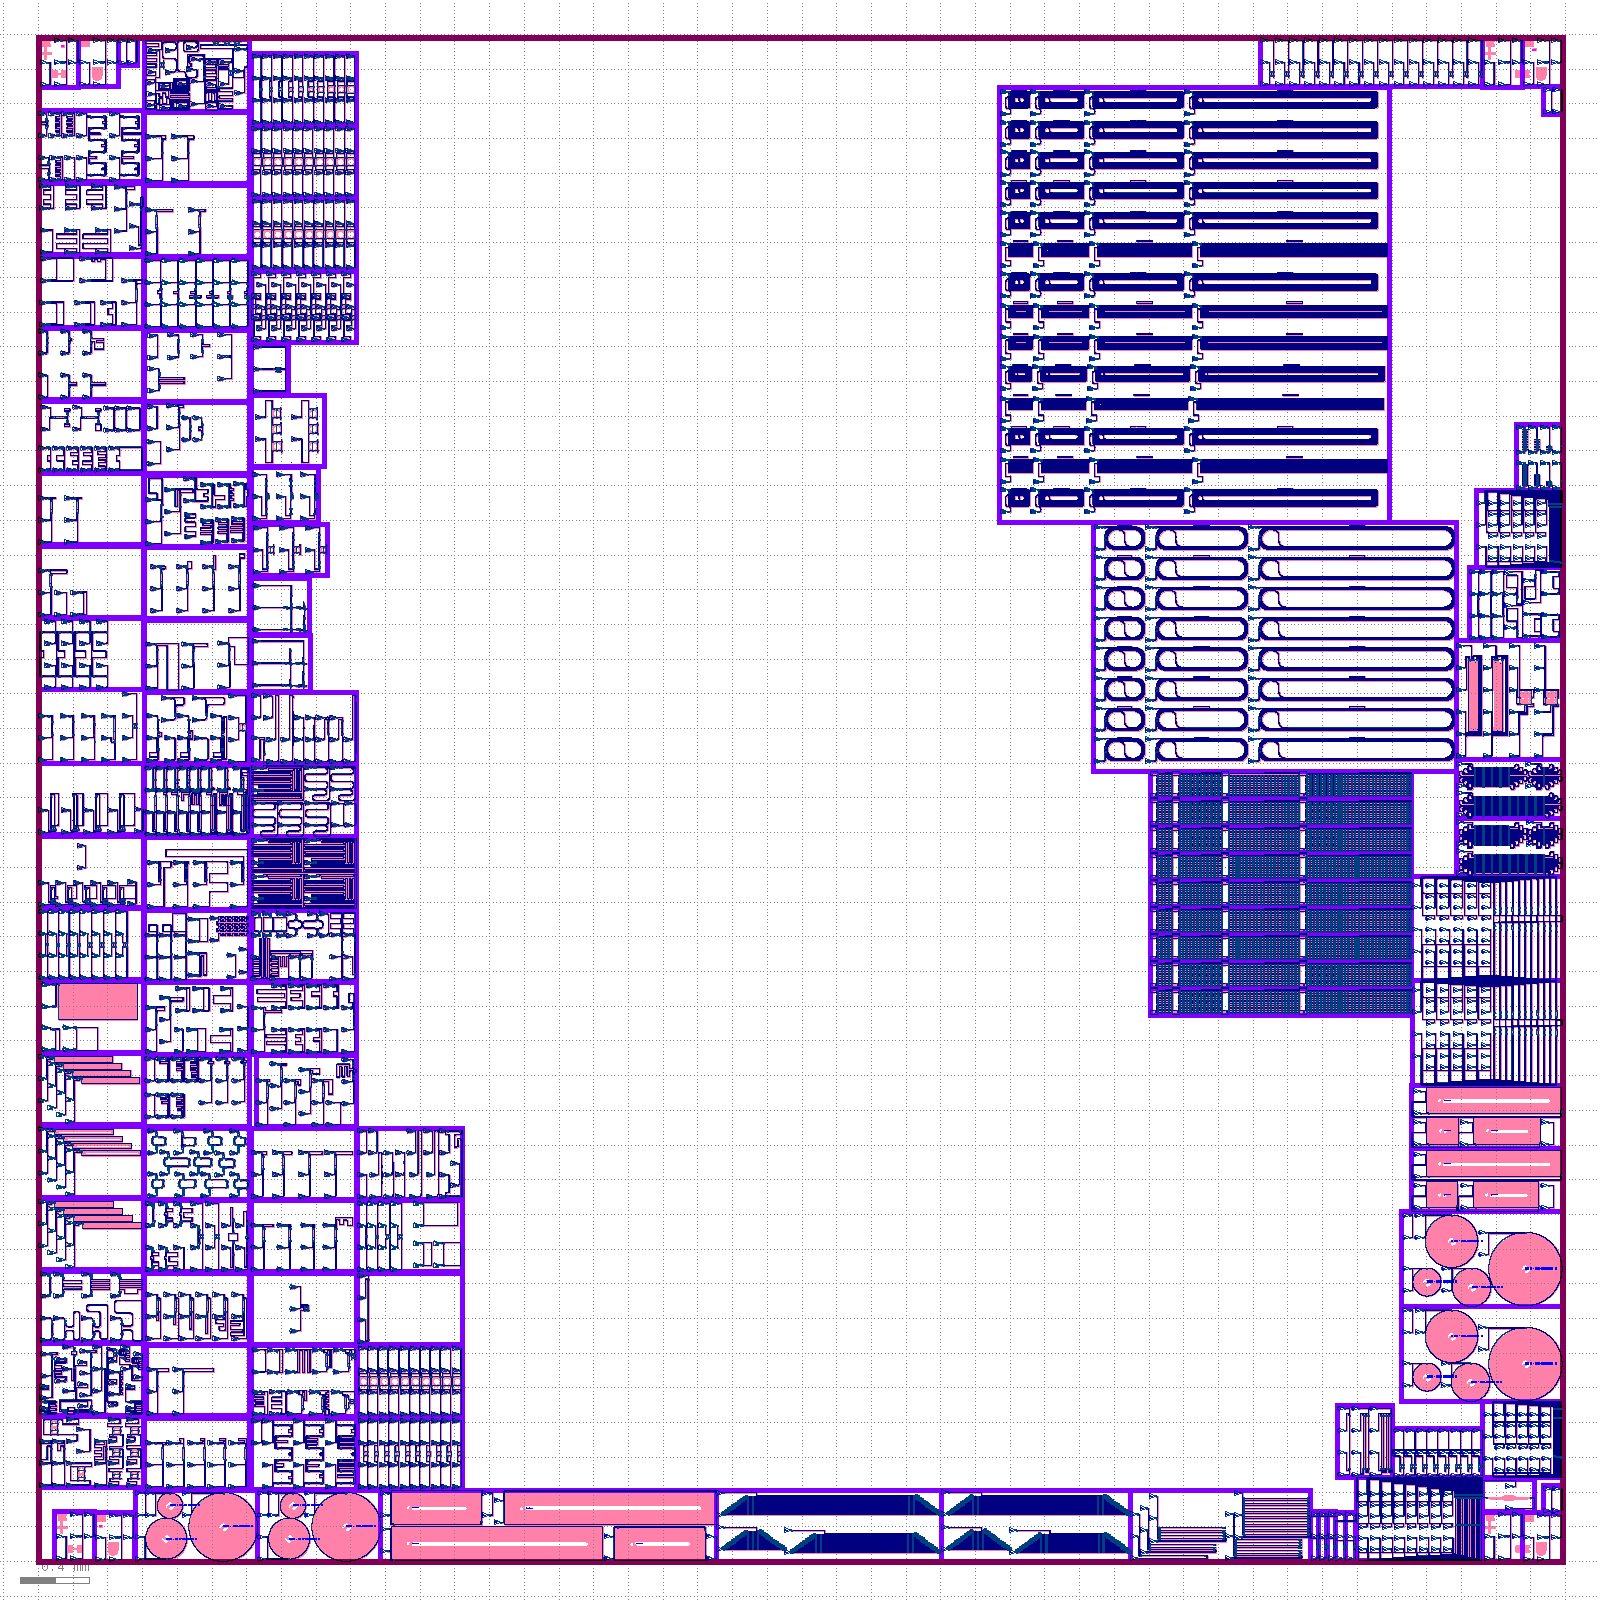
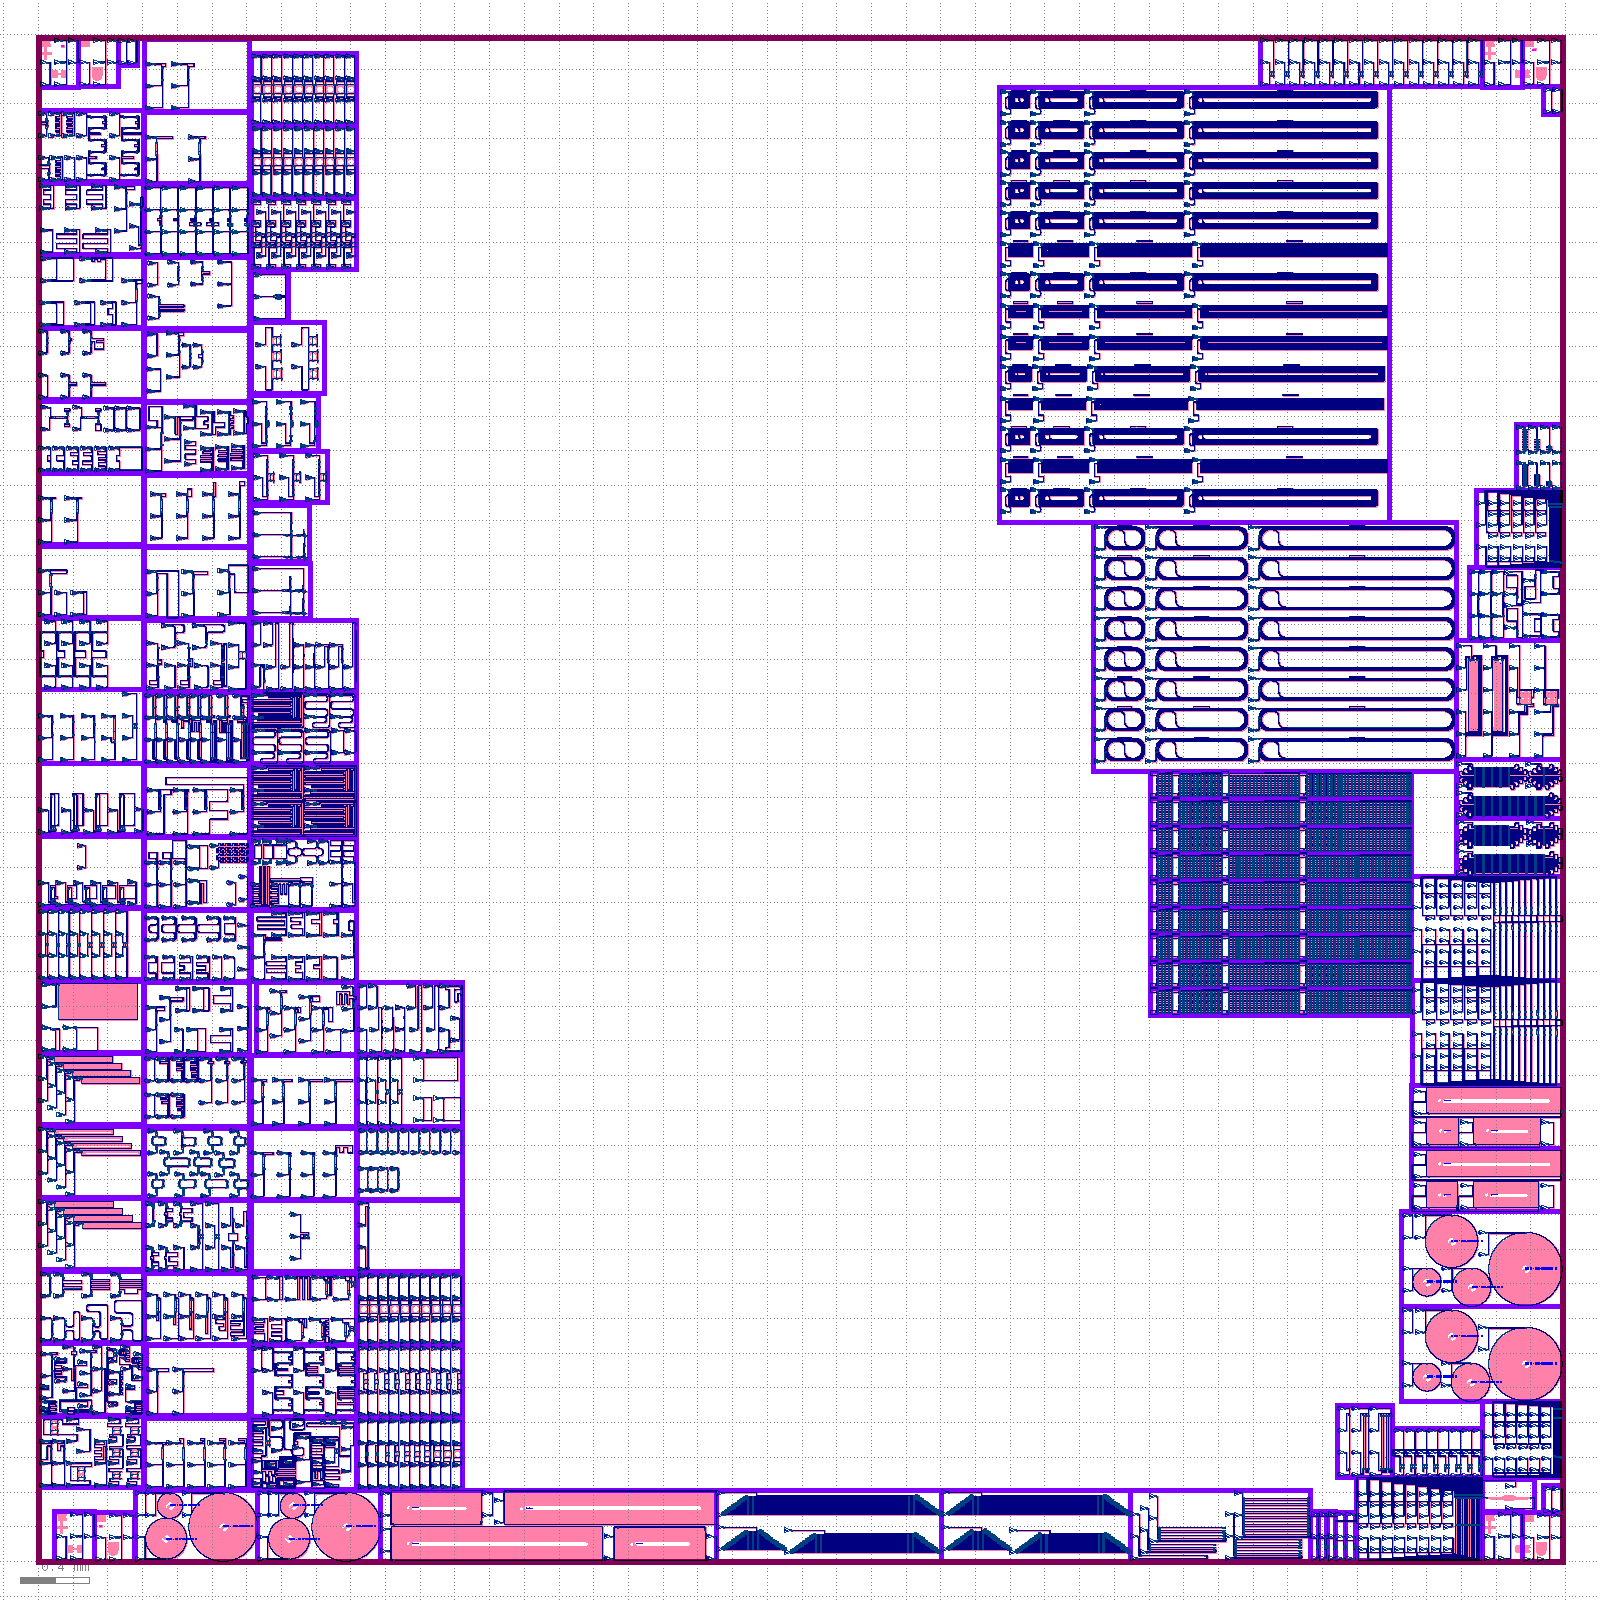
Aggregation layout: https://github.com/SiEPIC/openEBL-2026-05/actions/runs/25821065101/artifacts/6979420740

Changed region(s): [[0.0938, 0.0, 0.3125, 0.9375]]

diff --git a/README.md b/README.md
@@ -91,5 +91,5 @@ Will be added here.
 
 Click on the following link to download the EBeam.oas merged layout file:
 <!-- start-link -->
-https://github.com/SiEPIC/openEBL-2026-05/actions/runs/25802631393/artifacts/6971580596
+https://github.com/SiEPIC/openEBL-2026-05/actions/runs/25821065101/artifacts/6979420740
 <!-- end-link -->